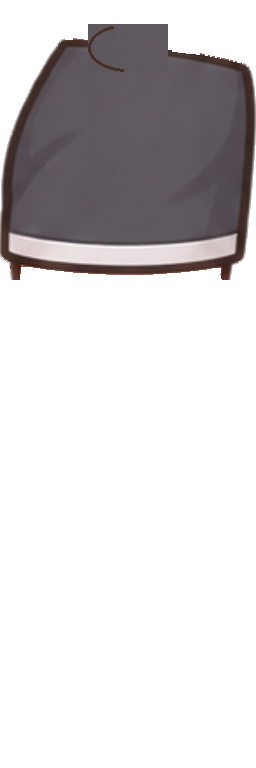
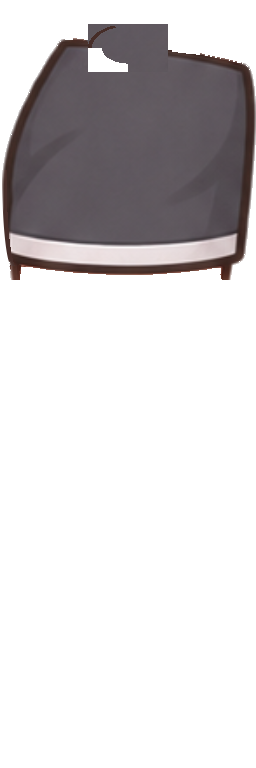
fix: 달리기 엉덩이 뒷면을 둥글게 깎고 긴 하의 다리에 맨몸 외곽선을 입힌다 [S15P31A207-300]
- 판정 round3: 엉덩이 잇기 타원 외곽선이 옷 안쪽 짙은 호로 떠 보였다. 타원 외곽선을 없애고, 엉덩이 잇기 칸의 등 아래 사분면을 투명하게
  깎아 화면 블록의 각진 등 아래 모서리를 없애고 등 쪽 둘레만 외곽선을 칠한다(carve_hip).
- 다리 텍스처 뒷면이 y 264에서 10px 꺾이던 모서리를 사분 타원으로 깎고 새 가장자리에 외곽선을 칠한다(round_hip_corner).
- 다리 메시는 맨몸 다리 실루엣 모양이라(픽셀 좌표 부호 렌더 6프레임 실측) 하의 자체 외곽선은 메시 밖이었다. 긴 하의는 맨몸 다리
  외곽선 위 하의 픽셀을 그 외곽선 색으로 바꾼다(outline_leg_edge: wide·jogger 외곽선, leggings 무릎 비침).
- 16번 구멍 검사는 엉덩이 잇기 칸을, 17번 달리기 다리 외곽선 기준은 그 칸과 깎은 뒷면을 뺀다.

Changed region(s): [[0.3438, 0.0625, 0.5, 0.0938], [0.0, 0.25, 0.0625, 0.3438]]

diff --git a/android/core/avatar/src/test/kotlin/com/a207/runkk/app/core/avatar/OutfitAssetSpecTest.kt b/android/core/avatar/src/test/kotlin/com/a207/runkk/app/core/avatar/OutfitAssetSpecTest.kt
@@ -264,8 +264,13 @@ class OutfitAssetSpecTest {
                     val pixels = IntArray(image.width * image.height)
                     image.getPixels(pixels, 0, image.width, 0, 0, image.width, image.height)
                     val holes = StrayPixels.holes(pixels, image.width, image.height)
+                    // 달리기 다리의 엉덩이 잇기 칸(x 88~167, y 24~71)은 등 아래를 일부러 깎는다(파이프라인 hip.hip_box, 판정 round3 C)
+                    val hip = slot == OutfitSlot.RUN_LEG
                     val count = holes.indices.count { i ->
-                        holes[i] && allowed.all { on(it, i % image.width, i / image.width) }
+                        val x = i % image.width
+                        val y = i / image.width
+                        val inHip = hip && x in 88 until 168 && y in 24 until 72
+                        holes[i] && !inHip && allowed.all { on(it, x, y) }
                     }
                     if (count > 0) found["${file.parentFile!!.name}/${file.name} $template"] = count
                     image.recycle()

diff --git a/android/core/avatar/tools/outfit-pipeline/outfit_pipeline/hip.py b/android/core/avatar/tools/outfit-pipeline/outfit_pipeline/hip.py
@@ -11,10 +11,11 @@ riv 파일은 승인본(SHA 시험) 그대로 두고, 앱은 읽은 바이트에
 
 from __future__ import annotations
 
+import math
 import struct
 
 import numpy as np
-from PIL import Image, ImageDraw
+from PIL import Image
 
 from outfit_pipeline.riv import NAME, PARENT_ID, VERTEX_V, _varuint
 from outfit_pipeline.riv_schema import PROPERTY_FORMAT
@@ -24,10 +25,12 @@ SOURCE = (88, 160, 168, 208)  # 원래 메시가 쓰던 텍스처 칸(x0, y0, x1
 TARGET_TOP = 24  # 옮길 칸 위 끝(텍스처 y). 아래 끝은 TARGET_TOP + 48
 HEIGHT = 768
 V_SHIFT = (SOURCE[1] - TARGET_TOP) / HEIGHT  # 꼭짓점 v에서 뺄 값(160 → 24)
-OUTLINE = (70, 48, 40)
-OUTLINE_PX = 3
-ARC = (100, 235)  # 외곽선을 그리는 타원 둘레 각(도, x 오른쪽 0, y 아래로 커짐): 위 → 등 쪽 → 엉덩이 아래 뒤
 _TOC_FORMAT = ("u", "s", "f", "c")
+
+
+def hip_box() -> tuple[int, int, int, int]:
+    """엉덩이 잇기 메시가 쓰는 칸(x0, y0, x1, y1, 끝 제외)."""
+    return (SOURCE[0], TARGET_TOP, SOURCE[2], TARGET_TOP + SOURCE[3] - SOURCE[1])
 
 
 def vertex_v_offsets(data: bytes) -> list[tuple[int, float]]:
@@ -113,29 +116,55 @@ def retarget(data: bytes) -> bytes:
 
 
 def paint_hip(layer: Image.Image) -> Image.Image:
-    """달리기 다리 레이어의 옮긴 칸(y [TARGET_TOP]~+48)에 원래 조각(SOURCE)을 그대로 옮기고, 메시 타원(u 0.344~0.656, 칸 높이) 둘레
-    [OUTLINE_PX]px 가운데 등 쪽([ARC])을 짙은 외곽선으로 칠한다. 원래 조각이 비어 있으면(하의가 없는 곳) 그대로 둔다."""
+    """달리기 다리 레이어의 옮긴 칸(y [TARGET_TOP]~+48)에 원래 조각(SOURCE)을 그대로 옮긴다. 원래 조각이 비어 있으면(하의가 없는
+    곳) 그대로 둔다. 타원 둘레에 외곽선은 그리지 않는다: 엉덩이 뒷면 실루엣은 다리 메시 윗부분(텍스처 y 약 100~280 왼쪽 가장자리)이
+    만들고 이 메시는 그 안쪽에 겹쳐, 타원 외곽선이 옷 안쪽에 짙은 호로 떠 보였다(판정 round3). 뒷면 모양은 [round_hip_corner]가 다룬다."""
     array = np.array(layer.convert("RGBA"))
     x0, y0, x1, y1 = SOURCE
     patch = array[y0:y1, x0:x1].copy()
     if not (patch[..., 3] > 0).any():
         return layer
-    height = y1 - y0
-    array[TARGET_TOP : TARGET_TOP + height, x0:x1] = patch
-    ring = Image.new("L", (x1 - x0, height), 0)
-    draw = ImageDraw.Draw(ring)
-    draw.ellipse((0, 0, x1 - x0 - 1, height - 1), fill=255)
-    inner = Image.new("L", ring.size, 0)
-    ImageDraw.Draw(inner).ellipse((OUTLINE_PX, OUTLINE_PX, x1 - x0 - 1 - OUTLINE_PX, height - 1 - OUTLINE_PX), fill=255)
-    band = (np.array(ring) > 0) & ~(np.array(inner) > 0)
-    # 외곽선은 뒤쪽(텍스처 왼쪽, 화면에서 등 쪽) 둘레만: 위에서 등을 돌아 엉덩이 아래 뒤까지([ARC] 도). 앞·아래 가운데는 허벅지로
-    # 이어지는 곳이라 선을 그리면 엉덩이에 타원 무늬로 보였다
-    yy, xx = np.mgrid[0:height, 0 : x1 - x0]
-    angle = np.degrees(np.arctan2(yy - (height - 1) / 2, xx - (x1 - x0 - 1) / 2)) % 360
-    band &= (angle >= ARC[0]) & (angle <= ARC[1])
-    target = array[TARGET_TOP : TARGET_TOP + height, x0:x1]
-    target[band, :3] = OUTLINE
-    target[band, 3] = 255
+    array[TARGET_TOP : TARGET_TOP + (y1 - y0), x0:x1] = patch
+    return Image.fromarray(array, "RGBA")
+
+
+# 엉덩이 뒷면 모서리(판정 round3 C): 다리 메시는 맨몸 다리 실루엣 모양이라 화면 뒷면 실루엣은 텍스처의 맨몸 다리 왼쪽 가장자리를 따른다
+# (실측: 텍스처 행마다 화면 뒷면 경계의 x가 맨몸 다리 왼쪽 끝과 같다). 맨몸·하의 다리 텍스처 윗부분은 y 약 170~255에서 x 1~3으로
+# 곧게 내려오다 y 264에서 x 11로 10px 꺾여, 엉덩이가 곧은 뒷면과 각진 아랫모서리의 블록으로 보였다. 그 사이를 둥근 곡선으로 깎는다.
+CORNER_ROWS = (170, 266)  # 깎는 행(위 끝은 곧은 뒷면 가운데, 아래 끝은 허벅지가 x 11에서 시작하는 행)
+CORNER_X = (2, 12)  # 곡선이 지나는 x(위 끝 → 아래 끝, 아래 끝은 허벅지 가장자리)
+CORNER_OUTLINE = (70, 45, 40)  # 맨몸 다리 외곽선 색
+CORNER_OUTLINE_PX = 5
+
+
+def corner_edge(y: int) -> float:
+    """[CORNER_ROWS] 안 행 [y]의 새 뒷면 x: 위에서는 곧은 뒷면에 붙고 아래로 갈수록 빨리 안으로 들어가는 둥근 곡선(사분 타원)."""
+    top, bottom = CORNER_ROWS
+    t = (y - top) / (bottom - top)
+    return CORNER_X[0] + (CORNER_X[1] - CORNER_X[0]) * (1 - math.sqrt(max(0.0, 1 - t * t)))
+
+
+def round_hip_corner(layer: Image.Image) -> Image.Image:
+    """달리기 다리 레이어(맨몸·하의)의 엉덩이 뒷면 모서리를 둥글게 깎고, 깎은 행의 새 가장자리 [CORNER_OUTLINE_PX]px을 짙은 외곽선으로
+    칠한다(그 행에 불투명 픽셀이 있을 때만). 깎은 곳은 투명해 그 뒤 배경이 보인다."""
+    array = np.array(layer.convert("RGBA"))
+    top, bottom = CORNER_ROWS
+    for y in range(top, bottom):
+        edge = corner_edge(y)
+        solid = np.nonzero(array[y, :, 3] >= 128)[0]
+        if len(solid) == 0 or solid.min() > 64:
+            continue
+        cut = math.floor(edge)
+        if solid.min() >= cut + CORNER_OUTLINE_PX:
+            continue  # 이미 곡선보다 안쪽(외곽선이 따로 있다)
+        array[y, :cut] = 0
+        # 경계 픽셀은 소수 부분만큼 반투명(곡선이 계단으로 보이지 않게). 다시 돌려도 같도록 원래 알파가 아니라 255에서 정한다
+        frac = edge - cut
+        if array[y, cut, 3] > 0:
+            array[y, cut, 3] = min(int(array[y, cut, 3]), round(255 * (1 - frac)))
+        band = slice(cut, cut + CORNER_OUTLINE_PX)
+        opaque = array[y, band, 3] > 0
+        array[y, band][opaque, :3] = CORNER_OUTLINE
     return Image.fromarray(array, "RGBA")
 
 
@@ -150,3 +179,72 @@ def retarget_rml(text: str) -> str:
         return f'v="{float(match.group(1)) - V_SHIFT!r}"'
 
     return text[:start] + re.sub(r'v="([0-9.eE+-]+)"', shift, text[start:end]) + text[end:]
+
+
+LEG_EDGE_PX = 7  # 맨몸 다리 외곽선으로 보는 가장자리 폭
+LEG_DARK = 110
+LONG_ROW = 500  # 천이 넓게(40px 이상) 이 행 아래까지 있으면 긴 하의
+
+
+def outline_leg_edge(layer: Image.Image, body: Image.Image) -> Image.Image:
+    """긴 하의 달리기 다리(판정 round3: wide·jogger 외곽선 없음, leggings 무릎 비침): 다리 메시는 맨몸 다리 실루엣 모양이라 하의가 그보다
+    넓은 곳은 화면에 나오지 않고, 실루엣 가장자리에는 하의 천이 나온다(하의 자체 외곽선은 메시 밖이라 안 보였다). 하의가 있는 행(밑단 위)에서
+    맨몸 다리 외곽선 픽셀(실루엣 가장자리 [LEG_EDGE_PX]px 안의 짙은 픽셀) 위의 하의 픽셀을 그 외곽선 색으로 바꿔 하의 외곽선으로 쓴다."""
+    array = np.array(layer.convert("RGBA"))
+    skin = np.array(body.convert("RGBA"))
+    garment = array[..., 3] >= 128
+    rows = np.nonzero(garment.sum(axis=1) >= 40)[0]
+    if len(rows) == 0 or rows.max() < LONG_ROW:
+        return layer
+    solid = skin[..., 3] >= 128
+    from PIL import ImageFilter
+
+    outside = Image.fromarray(((~solid) * 255).astype(np.uint8)).filter(ImageFilter.MaxFilter(2 * LEG_EDGE_PX + 1))
+    edge = solid & (np.array(outside) > 0) & (skin[..., :3].astype(int).mean(axis=-1) < LEG_DARK)
+    edge[: rows.min()] = False
+    edge[rows.max() - 6 :] = False
+    target = edge & garment
+    array[target, :3] = skin[target, :3]
+    return Image.fromarray(array, "RGBA")
+
+
+def finish_run_leg(layer: Image.Image, body: Image.Image | None) -> Image.Image:
+    """달리기 다리 하의 레이어 마무리(판정 round1~3 C): 엉덩이 잇기 칸(등 아래 모서리 깎음), 엉덩이 뒷면 둥근 모서리, 긴 하의는 맨몸 다리
+    외곽선."""
+    from outfit_pipeline.body import close_seams
+
+    layer = round_hip_corner(carve_hip(paint_hip(layer)))
+    if body is not None:
+        layer = outline_leg_edge(layer, body)
+    # 깎은 뒷면 끝 픽셀이 세로 틈(검사 14번)이 되지 않게 닫는다
+    return close_seams(layer)[0]
+
+
+BACK_ARC = (150, 250)  # 등 쪽 외곽선을 칠하는 타원 둘레 각(도, x 오른쪽 0, y 아래로 커짐): 등 가운데 아래 → 등 위
+BACK_PX = 4
+CARVE = 0.42  # 엉덩이 잇기 타원의 등 아래 사분면에서 (x/rx)²+(y/ry)²가 이보다 크면 깎는다(화면 블록의 등 아래 모서리)
+
+
+def carve_hip(layer: Image.Image) -> Image.Image:
+    """엉덩이 잇기 칸(TARGET)의 등 아래 사분면 바깥을 투명하게 깎아 화면 블록의 등 아래 모서리를 없앤다(판정 round3 C: 뒷면이 곧게
+    내려와 허벅지에서 각지게 꺾임). 메시가 타원이어도 뼈 변형으로 화면에서는 각진 블록이라 텍스처 알파로 깎는다. 깎은 자리에는 그 뒤
+    다리 메시 윗부분(외곽선이 있는 하의 엉덩이)이 보여 실루엣이 다리로 이어진다. 깎은 경계에 외곽선을 그리면 옷 안쪽 호로 떠 보여 그리지
+    않고, 깎지 않은 등 쪽 둘레만 외곽선을 칠한다."""
+    array = np.array(layer.convert("RGBA"))
+    x0, y0, x1, y1 = SOURCE
+    height = y1 - y0
+    region = array[TARGET_TOP : TARGET_TOP + height, x0:x1]
+    if not (region[..., 3] > 0).any():
+        return layer
+    yy, xx = np.mgrid[0:height, 0 : x1 - x0]
+    nx = (xx - (x1 - x0 - 1) / 2) / ((x1 - x0) / 2)
+    ny = (yy - (height - 1) / 2) / (height / 2)
+    region[(nx < 0) & (ny > 0) & (nx * nx + ny * ny > CARVE)] = 0
+    # 등 쪽 가장자리(타원 둘레 [BACK_ARC] 도, 깎지 않은 곳)는 화면 블록의 뒷면 실루엣이라 짙은 외곽선을 칠한다
+    radius = np.sqrt(nx * nx + ny * ny)
+    angle = np.degrees(np.arctan2(ny, nx)) % 360
+    back = (radius <= 1) & (radius > 1 - BACK_PX / ((x1 - x0) / 2)) & (angle >= BACK_ARC[0]) & (angle <= BACK_ARC[1])
+    back &= region[..., 3] > 0
+    region[back, :3] = CORNER_OUTLINE
+    region[back, 3] = 255
+    return Image.fromarray(array, "RGBA")

diff --git a/android/core/avatar/tools/outfit-pipeline/tests/test_hip.py b/android/core/avatar/tools/outfit-pipeline/tests/test_hip.py
@@ -2,6 +2,7 @@
 
 from __future__ import annotations
 
+import itertools
 import re
 import struct
 
@@ -11,7 +12,20 @@ from PIL import Image
 
 from outfit_pipeline import spec
 from outfit_pipeline.cli import OUTFITS, RAW
-from outfit_pipeline.hip import SOURCE, TARGET_TOP, V_SHIFT, paint_hip, retarget, retarget_rml, vertex_v_offsets
+from outfit_pipeline.hip import (
+    CORNER_ROWS,
+    SOURCE,
+    TARGET_TOP,
+    V_SHIFT,
+    carve_hip,
+    finish_run_leg,
+    outline_leg_edge,
+    paint_hip,
+    retarget,
+    retarget_rml,
+    round_hip_corner,
+    vertex_v_offsets,
+)
 
 KOTLIN = OUTFITS.parents[1] / "java/com/a207/runkk/app/core/avatar/RivHipConnection.kt"
 
@@ -48,18 +62,55 @@ def test_retarget_rml_shifts_only_the_hip_mesh() -> None:
     assert 'v="0.5"' in out and f'v="{0.24 - V_SHIFT!r}"' in out
 
 
-def test_paint_hip_copies_the_patch_and_outlines_the_back() -> None:
+def test_paint_hip_copies_the_patch_without_an_inner_arc() -> None:
     layer = np.zeros((768, 256, 4), np.uint8)
     x0, y0, x1, y1 = SOURCE
     layer[y0:y1, x0:x1] = (200, 180, 140, 255)
     out = np.array(paint_hip(Image.fromarray(layer, "RGBA")))
-    mid = TARGET_TOP + (y1 - y0) // 2
-    assert out[mid, (x0 + x1) // 2, :3].tolist() == [200, 180, 140]
-    assert out[mid, x0 + 1, :3].mean() < 80  # 등 쪽(왼쪽) 외곽선
-    assert out[mid, x1 - 2, :3].tolist() == [200, 180, 140]  # 앞쪽은 선이 없다
+    assert (out[TARGET_TOP : TARGET_TOP + (y1 - y0), x0:x1] == layer[y0:y1, x0:x1]).all()
+
+
+def test_round_hip_corner_rounds_the_back_and_outlines_the_new_edge() -> None:
+    """엉덩이 뒷면이 곧게 내려와 허벅지에서 10px 꺾이던 모서리(판정 round3 C)를 둥근 곡선으로 깎고 그 가장자리에 외곽선을 그린다."""
+    layer = np.zeros((768, 256, 4), np.uint8)
+    layer[96:264, 2:200] = (240, 200, 185, 255)  # 곧은 뒷면
+    layer[264:400, 11:200] = (240, 200, 185, 255)  # 허벅지(10px 안쪽)
+    out = np.array(round_hip_corner(Image.fromarray(layer, "RGBA")))
+    top, bottom = CORNER_ROWS
+    edges = [int(np.nonzero(out[y, :, 3] >= 128)[0].min()) for y in range(top, bottom)]
+    assert all(b - a <= 3 for a, b in itertools.pairwise(edges))  # 계단 없이 이어진다
+    y = (top + bottom) // 2 + 20
+    x = int(np.nonzero(out[y, :, 3] >= 128)[0].min())
+    assert out[y, x + 1, :3].mean() < 80 and out[y, x + 20, :3].mean() > 150
 
 
 @pytest.mark.parametrize("key", [*spec.LEGACY_KEYS["BOTTOM"], spec.BODY_FOLDER])
-def test_committed_run_legs_carry_the_hip_patch(key: str) -> None:
+def test_committed_run_legs_are_finished(key: str) -> None:
     layer = Image.open(OUTFITS / key / f"female_run_leg{spec.EXTENSION}")
-    assert np.array_equal(np.array(paint_hip(layer)), np.array(layer.convert("RGBA")))
+    if key == spec.BODY_FOLDER:
+        again = round_hip_corner(carve_hip(paint_hip(layer)))
+    else:
+        again = finish_run_leg(layer, Image.open(OUTFITS / spec.BODY_FOLDER / f"female_run_leg{spec.EXTENSION}"))
+    before, after = np.array(layer.convert("RGBA")), np.array(again)
+    visible = (before[..., 3] > 0) | (after[..., 3] > 0)
+    assert np.array_equal(before[..., 3], after[..., 3])
+    assert np.array_equal(before[visible, :3], after[visible, :3])
+
+
+def test_carve_hip_opens_the_back_bottom_corner() -> None:
+    layer = np.zeros((768, 256, 4), np.uint8)
+    x0, y0, x1, y1 = SOURCE
+    layer[TARGET_TOP : TARGET_TOP + (y1 - y0), x0:x1] = (200, 180, 140, 255)
+    out = np.array(carve_hip(Image.fromarray(layer, "RGBA")))
+    assert out[TARGET_TOP + (y1 - y0) - 2, x0 + 2, 3] == 0  # 등 아래 모서리는 깎였다
+    assert out[TARGET_TOP + 2, x1 - 3, 3] == 255  # 앞 위는 그대로
+
+
+def test_outline_leg_edge_paints_the_body_outline_on_long_bottoms() -> None:
+    body = np.zeros((768, 256, 4), np.uint8)
+    body[100:700, 30:200] = (240, 200, 185, 255)
+    body[100:700, 30:34] = (70, 45, 40, 255)
+    garment = np.zeros_like(body)
+    garment[100:690, 10:230] = (200, 180, 140, 255)
+    out = np.array(outline_leg_edge(Image.fromarray(garment, "RGBA"), Image.fromarray(body, "RGBA")))
+    assert out[300, 31, :3].tolist() == [70, 45, 40] and out[300, 100, :3].tolist() == [200, 180, 140]

diff --git a/android/core/avatar/tools/outfit-pipeline/outfit_pipeline/build.py b/android/core/avatar/tools/outfit-pipeline/outfit_pipeline/build.py
@@ -33,7 +33,7 @@ from outfit_pipeline.body import (
     wisp_strokes,
 )
 from outfit_pipeline.check import Problem, check_bundle, hole_area, template_for
-from outfit_pipeline.hip import paint_hip
+from outfit_pipeline.hip import carve_hip, finish_run_leg, paint_hip, round_hip_corner
 from outfit_pipeline.holes import fill_garment_holes
 from outfit_pipeline.masks import load_mask
 from outfit_pipeline.shoes import drop_ghost, drop_pieces
@@ -494,7 +494,7 @@ def clean_body(slot_name: str, image: Image.Image) -> tuple[Image.Image, Image.I
         # 달리기 슬롯(옆모습)은 3x3 굵은 실루엣 밖 1~2px 털도 지운다: 남기면 긴소매 소매 끝 옆 손목에서 상의 자르기가 빗살을 남겼다
         image, _ = drop_strays(image.convert("RGBA"), thin=True)
         if slot_name == "run_leg":
-            image = paint_hip(image)  # 엉덩이 잇기 메시 칸(판정 round1 C)
+            image = round_hip_corner(carve_hip(paint_hip(image)))  # 엉덩이 잇기 칸·뒷면 둥근 모서리(판정 round1~3 C)
         return image, None
     image, _ = drop_dust(image.convert("RGBA"))
     from outfit_pipeline.cli import RAW
@@ -533,8 +533,6 @@ def tidy_bottom(layer: Image.Image, body_folder: Path, wisps: bool = False, stan
     if stand:
         layer, _ = trim_waist(layer)
     else:
-        # 달리기 엉덩이 잇기 메시가 쓰는 칸(판정 round1 C, outfit_pipeline/hip.py)
-        layer = paint_hip(layer)
         leg = body_folder / f"female_run_leg{spec.EXTENSION}"
         # 천이 넓게(40px 이상) 있는 행만 센다(반바지 레이어에 딸려 온 다리 외곽선 가는 줄은 발목까지 내려간다)
         rows = np.nonzero(((np.array(layer.convert("RGBA"))[..., 3] >= 128).sum(axis=1)) >= 40)[0]
@@ -543,6 +541,8 @@ def tidy_bottom(layer: Image.Image, body_folder: Path, wisps: bool = False, stan
             layer, _ = cover_run_leg(layer, Image.open(leg))
             layer, _ = close_seams(layer)
             layer, _ = drop_strays(layer, garment=wisps, thin=True)
+        # 엉덩이 잇기 칸·엉덩이 뒷면 둥근 모서리·긴 하의 다리 외곽선(판정 round1~3 C, outfit_pipeline/hip.py)
+        layer = finish_run_leg(layer, Image.open(leg) if leg.is_file() else None)
     return layer
 
 

diff --git a/android/core/avatar/tools/outfit-pipeline/outfit_pipeline/check.py b/android/core/avatar/tools/outfit-pipeline/outfit_pipeline/check.py
@@ -67,6 +67,13 @@ def hole_area(masks_dir: Path, file_name: str, part: str, male_top_surface: int)
         mask = load_mask(masks_dir, template_for(f"{gender}_{rest}", part, male_top_surface), part)
         area = mask if area is None else ImageChops.multiply(area, mask)
     assert area is not None
+    if rest.startswith("run_leg"):
+        from outfit_pipeline.hip import hip_box
+
+        area = area.copy()
+        area.paste(
+            0, hip_box()
+        )  # 엉덩이 잇기 칸은 등 아래를 일부러 깎는다(판정 round3 C, 다리 메시는 이 칸을 쓰지 않는다)
     return area
 
 

diff --git a/android/core/avatar/OUTFIT_SPEC.md b/android/core/avatar/OUTFIT_SPEC.md
@@ -51,7 +51,7 @@ riv 네 파일(`res/raw`, 승인본 SHA 고정, 읽기만)의 아트보드는 80
 | 신발 기준점 | 정면 발 칸 (96,627)-(257,768)·(260,627)-(421,768), 양말 위 끝은 y 616 이하로 올리지 않는다 |
 | 신발 잔상·조각 (판정 round1 D) | 신발 레이어에서 신발과 떨어진 작은 덩어리(8방향 200px 미만, ankle_boots 발목 위 짧은 획)는 없다. 생성 그림의 그림자·배경이 신발 외곽선 밖에 불투명한 띠로 남은 신발(`spec.SHOE_GHOST_KEYS`: high_top 검은 잔상, lime_runner 적갈색 테두리)은 원본에서 만들 때 그 띠를 지운다(`outfit_pipeline/shoes.py`: 행마다 바깥에서 들어와 이웃 색 차 35 이하로 6~22px 이어지다 큰 색 변화(신발 외곽선)에서 멈추는 밝지 않은 띠, 5x5 닫기·7x7 열기로 다듬음). 외곽선이 부드러운 다른 신발에 쓰면 외곽선까지 지워져 확인된 신발만 둔다 |
 | 칼라·후드 안 (판정 round1 B) | 서기 맨몸 아틀라스는 얼굴 레이어 위에 그려져 얼굴 목은 아틀라스가 빈 곳(어깨선 U자 안)으로만 보인다. 생성 단계가 긴소매(finisher, hoodie, cherry_vest, windbreaker)의 목·가슴 위 칸(x 196~316, y 0~48)을 피부 판정 칸으로 써서 후드 안감·칼라를 직사각형으로 지웠고, 그 밑 맨몸 가슴 피부가 곧은 모서리의 피부 사각형으로 비쳤다. 상의 레이어 위 60행에서 같은 행 왼쪽·오른쪽에 천이 있는 투명 픽셀을 이웃 천 색으로 메우고(`holes.fill_collar`), 목 기둥(x 217~295) 가운데 맨몸도 빈 곳만 비워 두며 그 둘레 2px은 안감 그늘로 조금 어둡게 한다 |
-| 달리기 엉덩이 잇기 (판정 round1 C) | 달리기 riv의 Image 「Cloth textured hip connection」(타원 메시)은 run_leg 텍스처 가운데 조각(x 88~168, y 160~208)을 써서 엉덩이 뒷면에 외곽선이 없었고 같은 칸을 앞 다리 메시도 허벅지에 쓴다. 앱은 읽은 riv 바이트에서 그 꼭짓점 v만 136/768만큼 위로 옮겨(`RivHipConnection`, 파일은 승인본 그대로) 다리 메시가 화면에 쓰지 않는 칸(y 24~72, 몸통·엉덩이에 가려 보이지 않음을 판정 렌더 16x16 칸 실측으로 확인)을 쓰게 하고, 하의·맨몸 달리기 다리 레이어는 그 칸에 원래 조각을 옮겨 그린 뒤 타원 둘레 가운데 등 쪽(100~235도) 3px을 짙은 외곽선으로 칠한다(`outfit_pipeline/hip.py`). 판정 렌더(judge)는 Rive 원본의 같은 꼭짓점 v를 옮긴다(`retarget_rml`) |
+| 달리기 엉덩이 잇기·다리 실루엣 (판정 round1~3 C) | 달리기 riv의 Image 「Cloth textured hip connection」(타원 메시)은 run_leg 텍스처 가운데 조각(x 88~168, y 160~208)을 써서 엉덩이 뒷면에 외곽선이 없었고 같은 칸을 앞 다리 메시도 허벅지에 쓴다. 앱은 읽은 riv 바이트에서 그 꼭짓점 v만 136/768만큼 위로 옮겨(`RivHipConnection`, 파일은 승인본 그대로) 다리 메시가 화면에 쓰지 않는 칸(y 24~72)을 쓰게 하고, 판정 렌더는 Rive 원본의 같은 꼭짓점을 옮긴다(`retarget_rml`). 다리 메시는 맨몸 다리 실루엣 모양이라(16x16 칸과 픽셀 좌표 부호 렌더로 실측: 텍스처 행마다 화면 뒷면 경계가 맨몸 다리 왼쪽 끝과 같다) 하의가 맨몸 다리보다 넓은 곳은 화면에 나오지 않는다. 그래서 하의·맨몸 달리기 다리 레이어(`hip.finish_run_leg`)는 (1) 엉덩이 잇기 칸에 원래 조각을 옮기고 타원의 등 아래 사분면 바깥((x/rx)²+(y/ry)² > 0.42)을 투명하게 깎아(화면 블록의 등 아래 모서리를 없앤다, 깎은 경계에 외곽선을 그리면 옷 안쪽 호로 떠 보였다) 등 쪽 둘레(150~250도) 4px만 외곽선으로 칠하고, (2) 다리 텍스처 y 170~265의 뒷면을 x 2→12 사분 타원 곡선으로 깎아(곧은 뒷면이 y 264에서 10px 꺾이던 모서리) 새 가장자리 5px을 맨몸 외곽선 색으로 칠하고, (3) 긴 하의는 맨몸 다리 외곽선(실루엣 가장자리 7px 안 짙은 픽셀) 위 하의 픽셀을 그 외곽선 색으로 바꾼다(wide·jogger 외곽선, leggings 무릎 비침). 16번 구멍 검사는 엉덩이 잇기 칸을, 17번 달리기 다리 외곽선 기준은 그 칸과 깎은 뒷면(y 170~265, x < 24)을 뺀다 |
 | 하의 길이 | 달리기 다리(`run_leg`)의 하의는 기본 반바지 밑단(y 약 250)보다 짧게 끝나지 않는다(맨몸 허벅지의 이음선이 그 위에 있다) |
 | 품질 | 코랄 집업 후드(`top_cherry_vest`) 기준: 외곽선 2px(옷 기본색의 어두운 톤, 검정 아님), 음영 3단, 주름은 관절·지퍼·밑단, 광택·질감 무늬 없음 |
 
